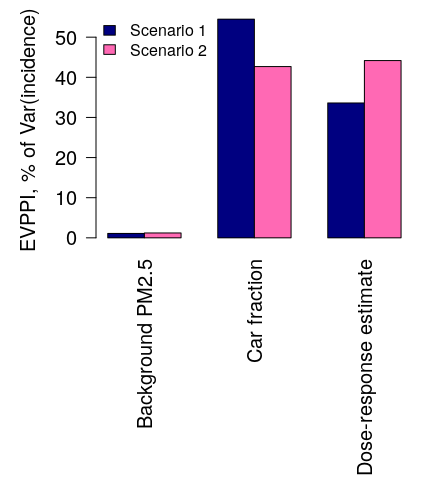
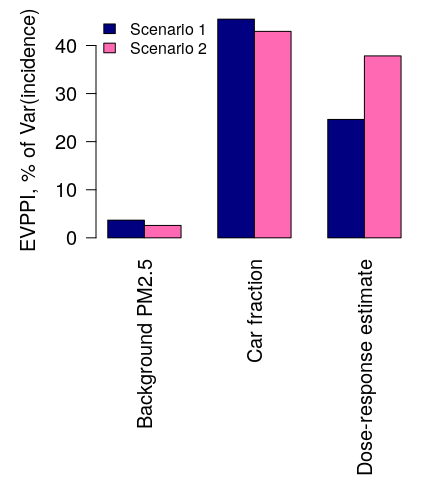
sample with replacement

diff --git a/README.md b/README.md
@@ -78,9 +78,9 @@ EVPPI result
 
 |                        |  Scenario 1|  Scenario 2|
 |------------------------|-----------:|-----------:|
-| Background PM2.5       |         1.1|         1.2|
-| Car fraction           |        54.5|        42.7|
-| Dose-response estimate |        33.6|        44.2|
+| Background PM2.5       |         3.7|         2.6|
+| Car fraction           |        45.5|        42.9|
+| Dose-response estimate |        24.6|        37.8|
 
 ![](README_files/figure-markdown_github/plot-1.png)
 
